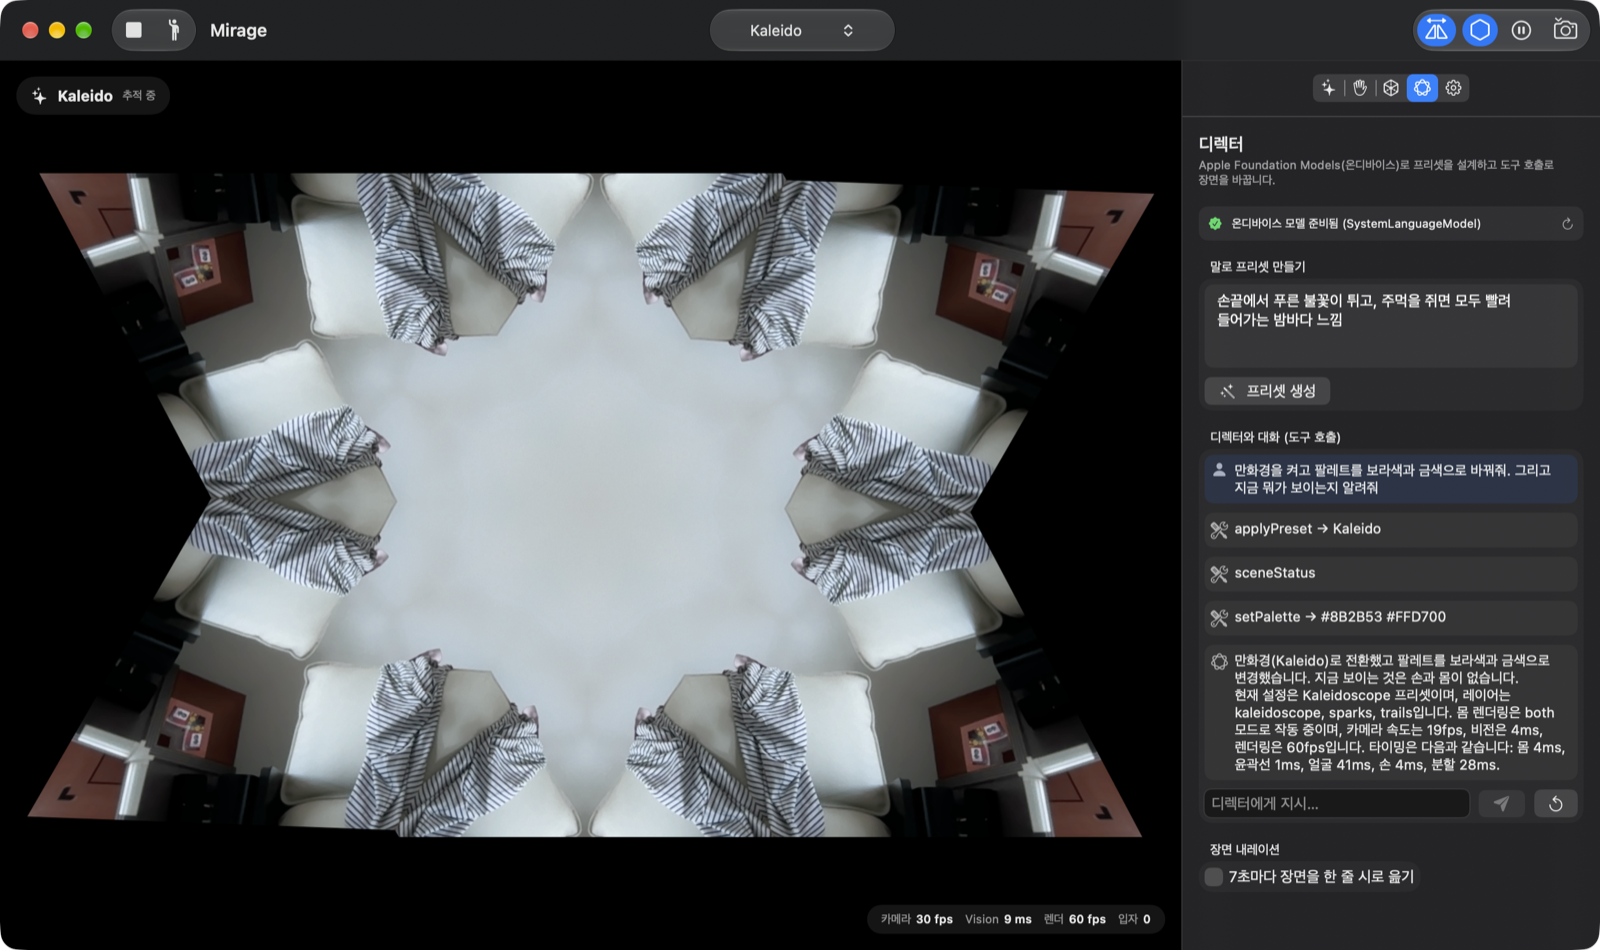
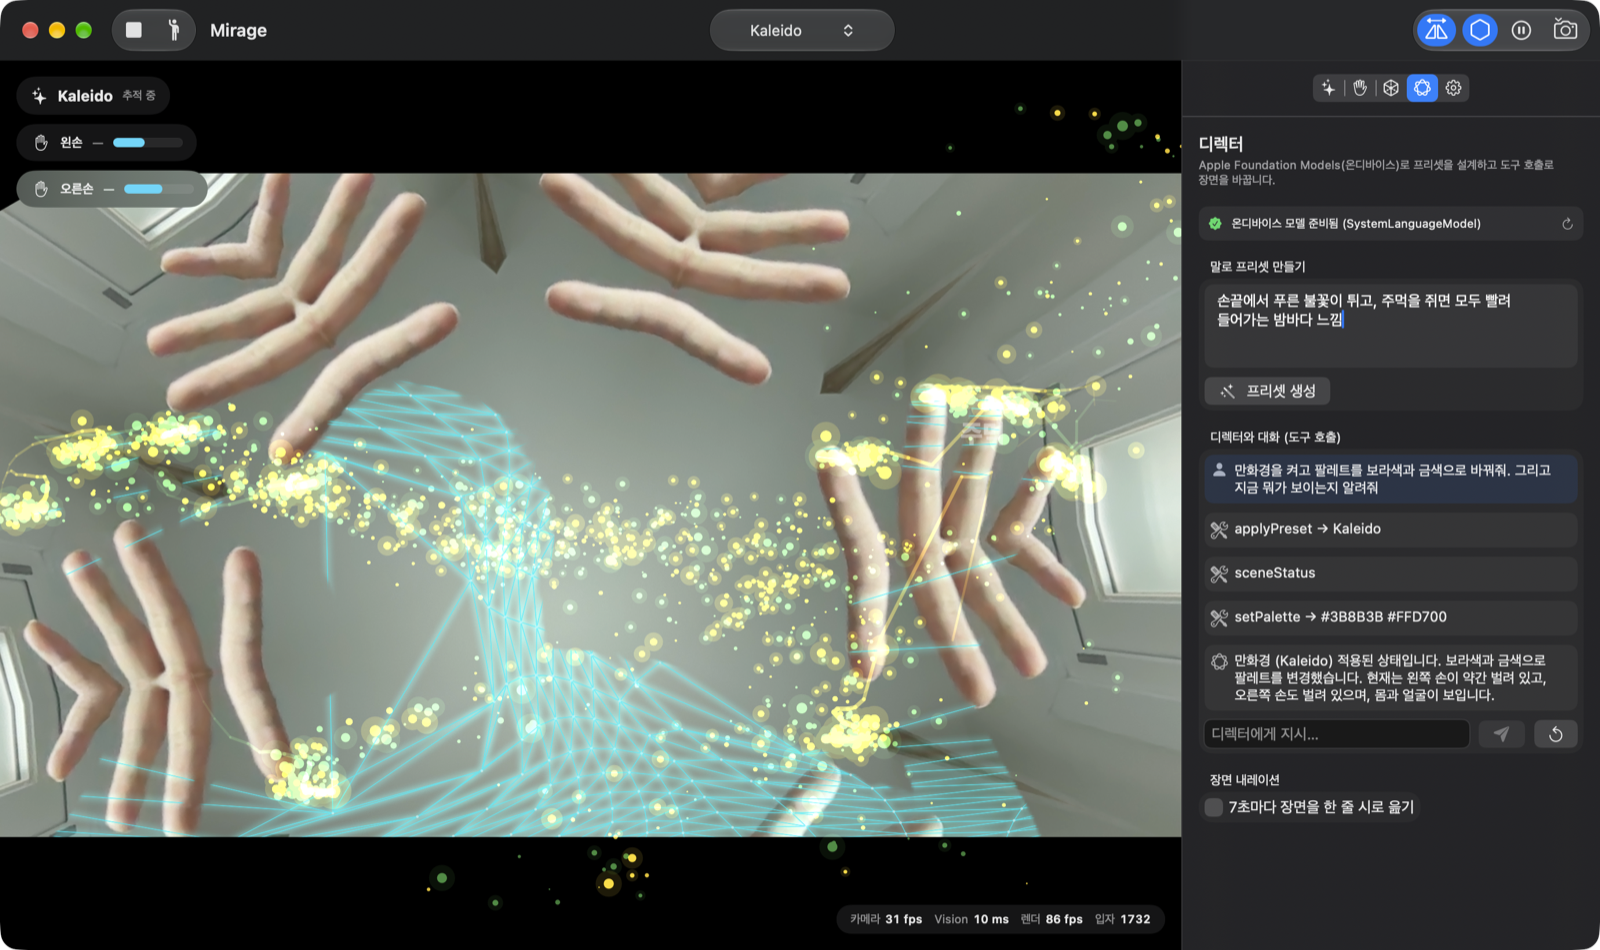
잘된다

diff --git a/README.md b/README.md
@@ -5,7 +5,7 @@
 > 제스처에 반응하는 시각 이펙트를 겹쳐 그리며, 내 몸 위에 와이어프레임 또는 Blender에서 만든 USDZ 메시를 입히는 macOS 앱입니다.
 > Apple **Vision · Core Image · RealityKit · FoundationModels**만 사용하고, 영상은 단 한 프레임도 Mac을 떠나지 않습니다.
 
-![Ember 프리셋 — 손끝 스파크, 주먹으로 끌어당기기, 실루엣 와이어프레임](Docs/screenshots/ember.png)
+![Ember 프리셋 — 양손 주먹으로 입자를 끌어당기는 중. 실루엣 와이어프레임 스킨, 네온 스켈레톤, ‘양손 모으기’ 제스처 라벨](Docs/screenshots/ember.png)
 
 | | |
 |---|---|
@@ -57,7 +57,7 @@
 
 프리셋: **Ember · Neon Wire · Glass Lens · Kaleido · Light Painter · Aurora Skin** (+ 사용자 저장 프리셋).
 
-![Aurora Skin — 얼굴 랜드마크 + 오라 + Foundation Models 내레이션](Docs/screenshots/aurora-face-narration.png)
+![Aurora Skin — 양손 보자기에서 튀는 스파크, 얼굴 76점 랜드마크, 실루엣 오라, 하단의 Foundation Models 한 줄 내레이션](Docs/screenshots/aurora-face-narration.png)
 
 ### 4. 내 몸에 메시 입히기 — 두 가지 방식
 
@@ -86,8 +86,8 @@
 | **디렉터와 대화** | `Tool` 6종: `applyPreset`, `setLayers`, `setPalette`, `bindGesture`, `setMeshMode`, `sceneStatus`. “만화경 켜고 팔레트 보라/금색으로, 지금 뭐 보여?” 한 문장에 도구 세 개가 연달아 호출됩니다 |
 | **장면 내레이션** | 7초마다 Vision 결과 요약을 넣어 한 줄 시를 받아 HUD에 띄웁니다 |
 
-![디렉터 — 자연어 → 타입 안전 프리셋 생성](Docs/screenshots/director-generate.png)
-![디렉터 — 도구 호출 대화 (applyPreset · sceneStatus · setPalette)](Docs/screenshots/director-chat.png)
+![디렉터 — 자연어 한 문장으로 ‘Blue Fists’ 프리셋 생성. 레이어·팔레트·제스처 바인딩이 타입 안전하게 채워진 카드](Docs/screenshots/director-generate.png)
+![디렉터 — 한 문장 지시로 applyPreset → sceneStatus → setPalette 도구가 연달아 호출되고, 만화경 속 양손 위로 금색 팔레트가 적용된 장면](Docs/screenshots/director-chat.png)
 
 ---
 
@@ -95,11 +95,11 @@
 
 | 항목 | 값 |
 |---|---|
-| Vision 합계 (손+몸 매 프레임, 무거운 요청 격프레임) | 9–35 ms (평균 ≈ 19 ms, 첫 1초 워밍업 ≈ 60 ms) |
+| Vision 합계 (손+몸 매 프레임, 무거운 요청 격프레임) | 9–23 ms (첫 1초 워밍업 ≈ 60 ms) |
 | 손 포즈 / 몸 포즈 / 세그멘테이션(균형) / 얼굴 / 윤곽 | ≈ 15 / 15 / 16 / 19 / 2 ms |
-| 분석 프레임률 (사람이 있을 때) | 11–21 fps |
+| 분석 프레임률 (사람·양손·얼굴 포함) | 30 fps (카메라 상한) — 초기 측정은 11–21 fps |
 | 분석 프레임률 (빈 방) | 30 fps (카메라 상한) |
-| 렌더 (SwiftUI Canvas, 입자 ~1,000개) | 56–117 fps |
+| 렌더 (SwiftUI Canvas, 입자 ~1,700개) | 60–101 fps |
 | 프리셋 생성 (Foundation Models) | ≈ 8–12 s |
 | 도구 호출 대화 (3개 도구) | ≈ 12–15 s |
 
